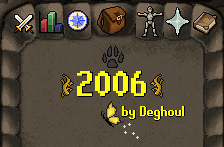
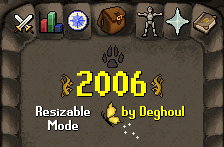
Post Sailing v2
Removed redundant files
Switched pack to Resizable

Changed region(s): [[0.1562, 0.7075, 0.4062, 0.898], [0.7188, 0.7891, 0.75, 0.8163], [0.625, 0.7891, 0.6562, 0.8163]]

diff --git a/README.md b/README.md
@@ -10,51 +10,17 @@
 # Description
 This pack was created to recreate the gameframe of late 2006, when hunter was released. With the limitations of resource packs currently, it's not possible to have the same exact appearance as the original for resizable mode. I spent a lot of time searching old references and trying to fit the old interface style with the current so it looks as close to the original style as possible.
 
-**This pack is made for both resizable and fixed mode, see below on how to set up fixed mode to work properly.**
+**If you're looking for 2006 Fixed Mode, check out my other pack** [FixedMode](Coming Soon)
 
 
-# Resizeable mode
-![ResizeableMode](https://i.imgur.com/YGpdEQi.png)
-![ResizeableMode](https://i.imgur.com/mN6itkH.png)
+# Features
+ - Reworked tabs for all interfaces to match the old 2006 style
+ - Classic Minimap
+ - Classic Chatbox
+ - Classic Black Steel borders
 
-## Resizable chatbox
-
-**This requires local editing, see at the top of the page on how to use Resource-Packs locally.**
-
-If you prefer to have the chat and stones behind the buttons underneath transparent like the example above, navigate to the `chatbox` folder and open the `Alternative` folder. Drag and drop `background.png` and `buttons_background_stones.png` into the `chatbox` folder to replace the default ones.
-
-Disable and re-enable the resource packs plugin, and if you've done it correctly your chatbox in-game should have changed.
-
-![Chatbox](https://i.imgur.com/xPgDLu8.gif)
-
-**If you replace these files, fixed mode will not work correctly, use the hub option for default chatbox if you'd like.**
-
-
-# Fixed mode
-![FixedMode](https://i.imgur.com/aCD8AIc.png)
-
-**In order to correctly use in fixed mode theres a couple steps required:**
-1. Go to Runelite's plugins and enable "Interface Styles", open the settings and set 'gameframe' to 2006.
-
-![InterfaceStyleSetting](https://i.imgur.com/y9z2fjJ.png)
-
-2. Go to the Resource packs plugin settings and tick the experimental setting at the bottom 'Don't change Interface Styles'.
-
-![ResourcePackOption](https://i.imgur.com/h7pY5BH.png)
-
-3. Disable and Reenable the Resource packs plugin, and you're done.
-
-**If you want to use other packs in fixed mode, you have to make sure to disable the plugin 'Interface Styles' and disable/reenable resource packs for them to work correctly, unless the creators' specify otherwise.**
-
-
-## Correct icon alignment for Fixed Mode
-
-**This requires local editing, see at the top of the page on how to use Resource-Packs locally.**
-
-If you plan on using fixed mode **only**, Navigate to the `tab` folder inside of the resource pack.
-
-Open the `Alternatives` folder, drag and drop all the icons into the `tab` folder to replace the default ones. 
-
-Disable and reenable the resource packs plugin, and if you've done it correctly your tab icons in-game should be correctly aligned.
-
-![Inventory](https://i.imgur.com/mOSrNy3.gif)
+![Features](https://i.imgur.com/mN6itkH.png)
+![Features](https://i.imgur.com/h4dvVuW.png)
+![Features](https://i.imgur.com/TlVpqlN.png)
+![Features](https://i.imgur.com/9DjDXKx.png)
+![Features](https://i.imgur.com/FH38oyf.png)
